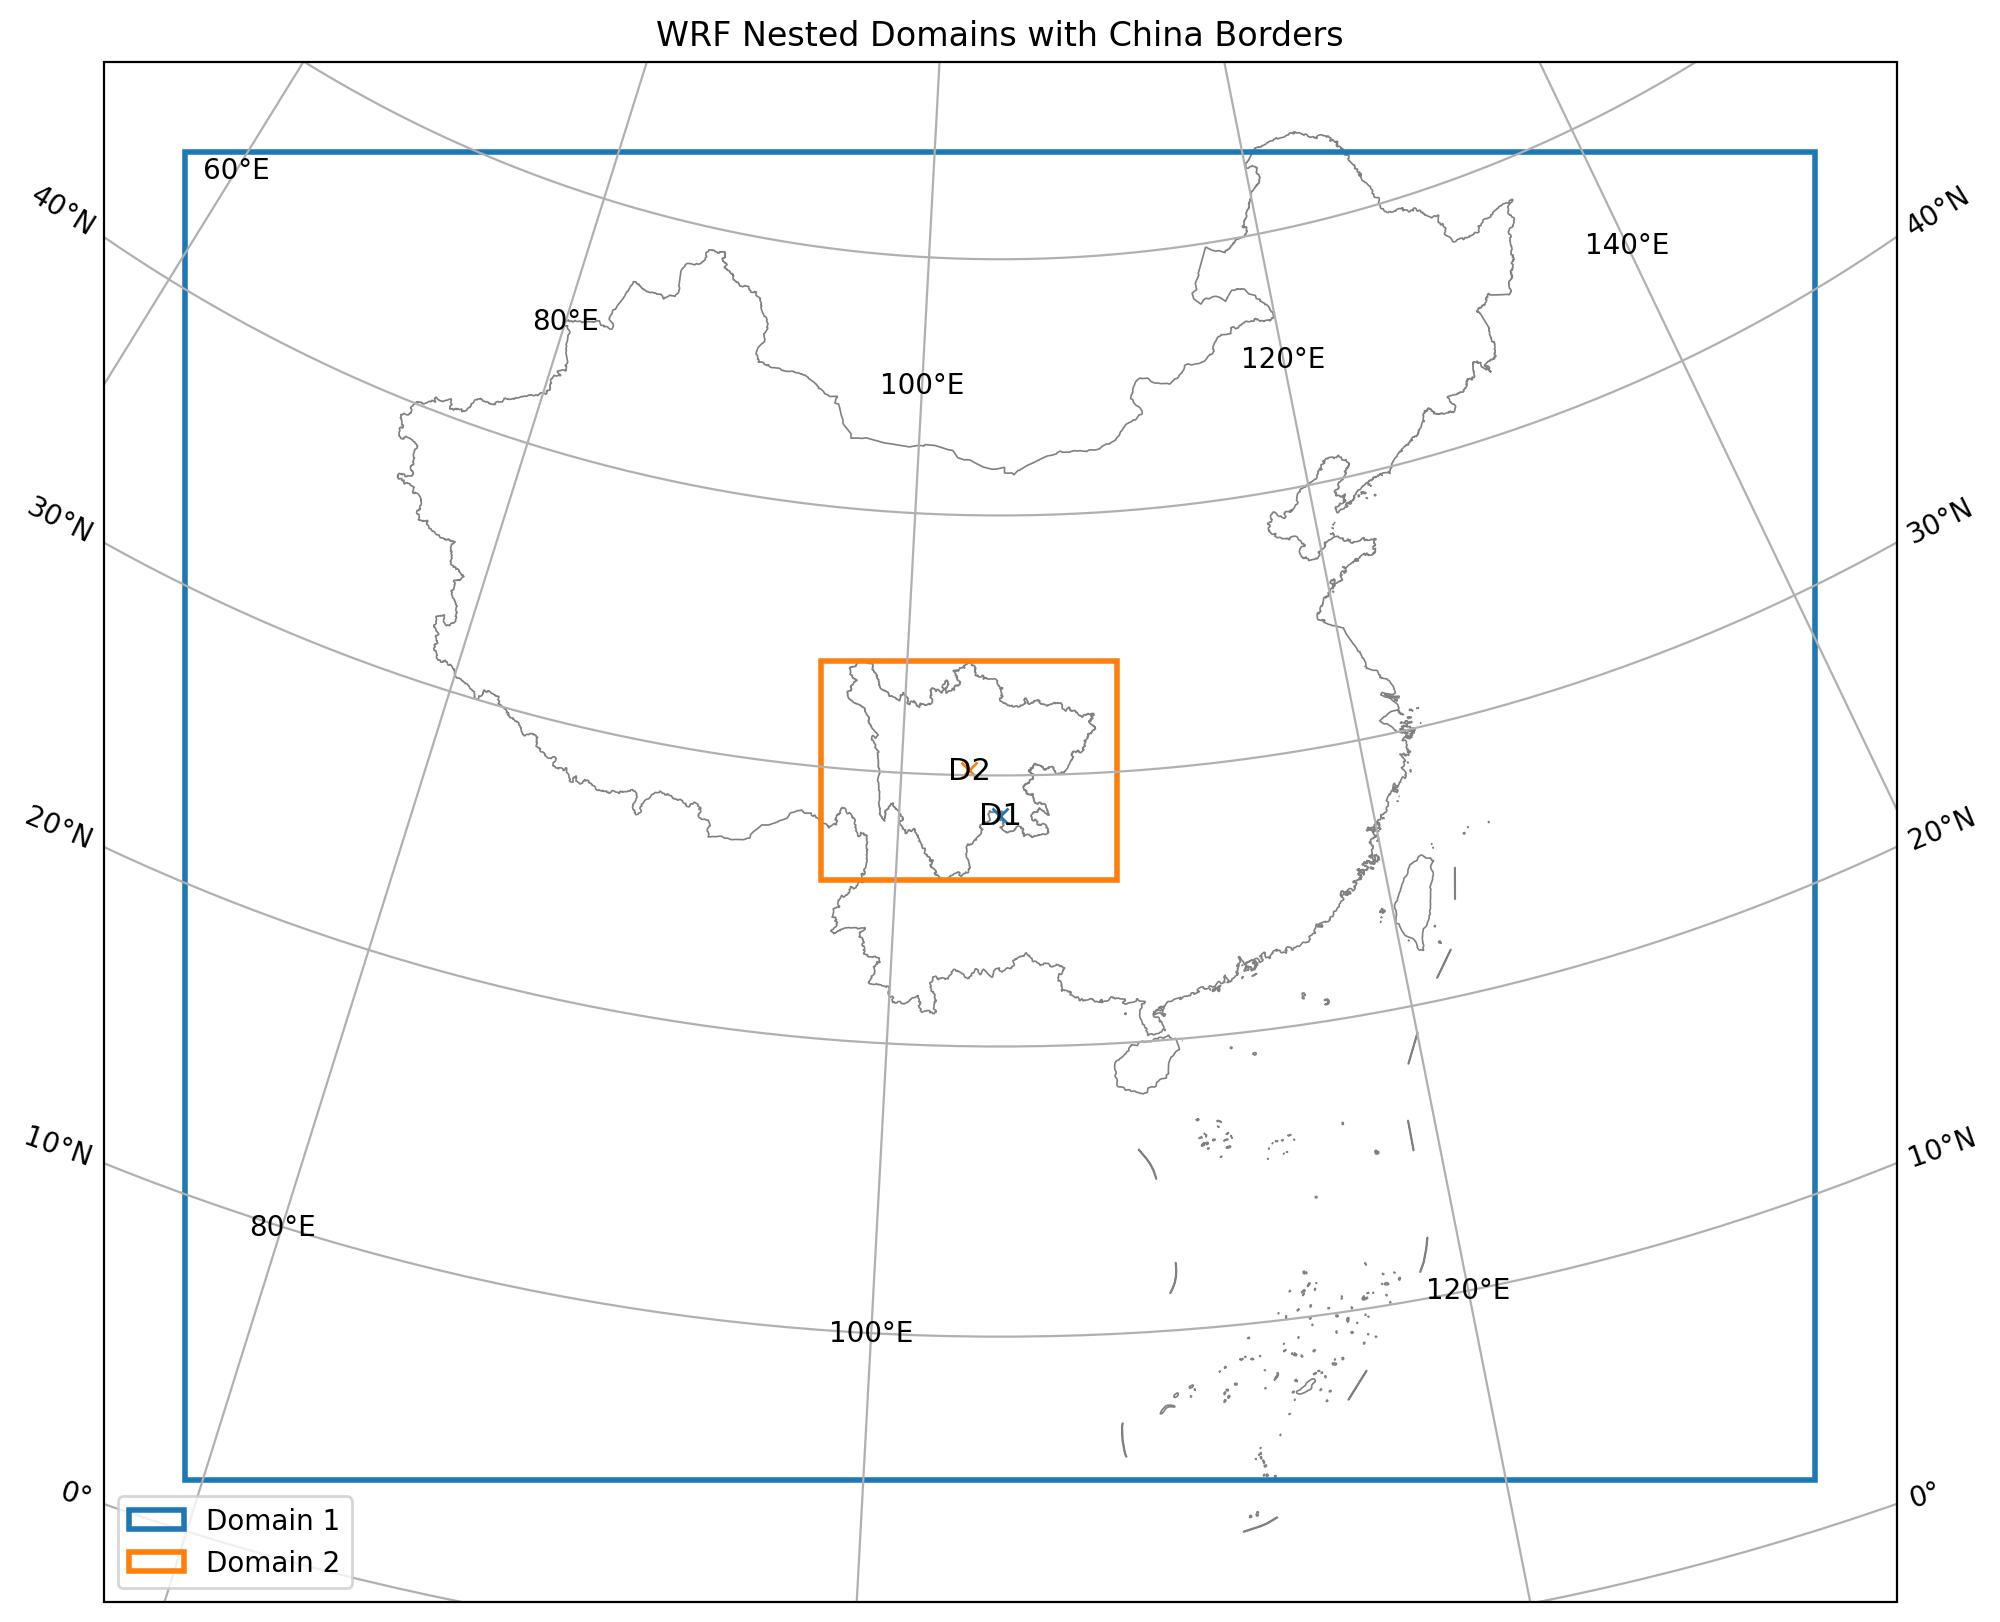
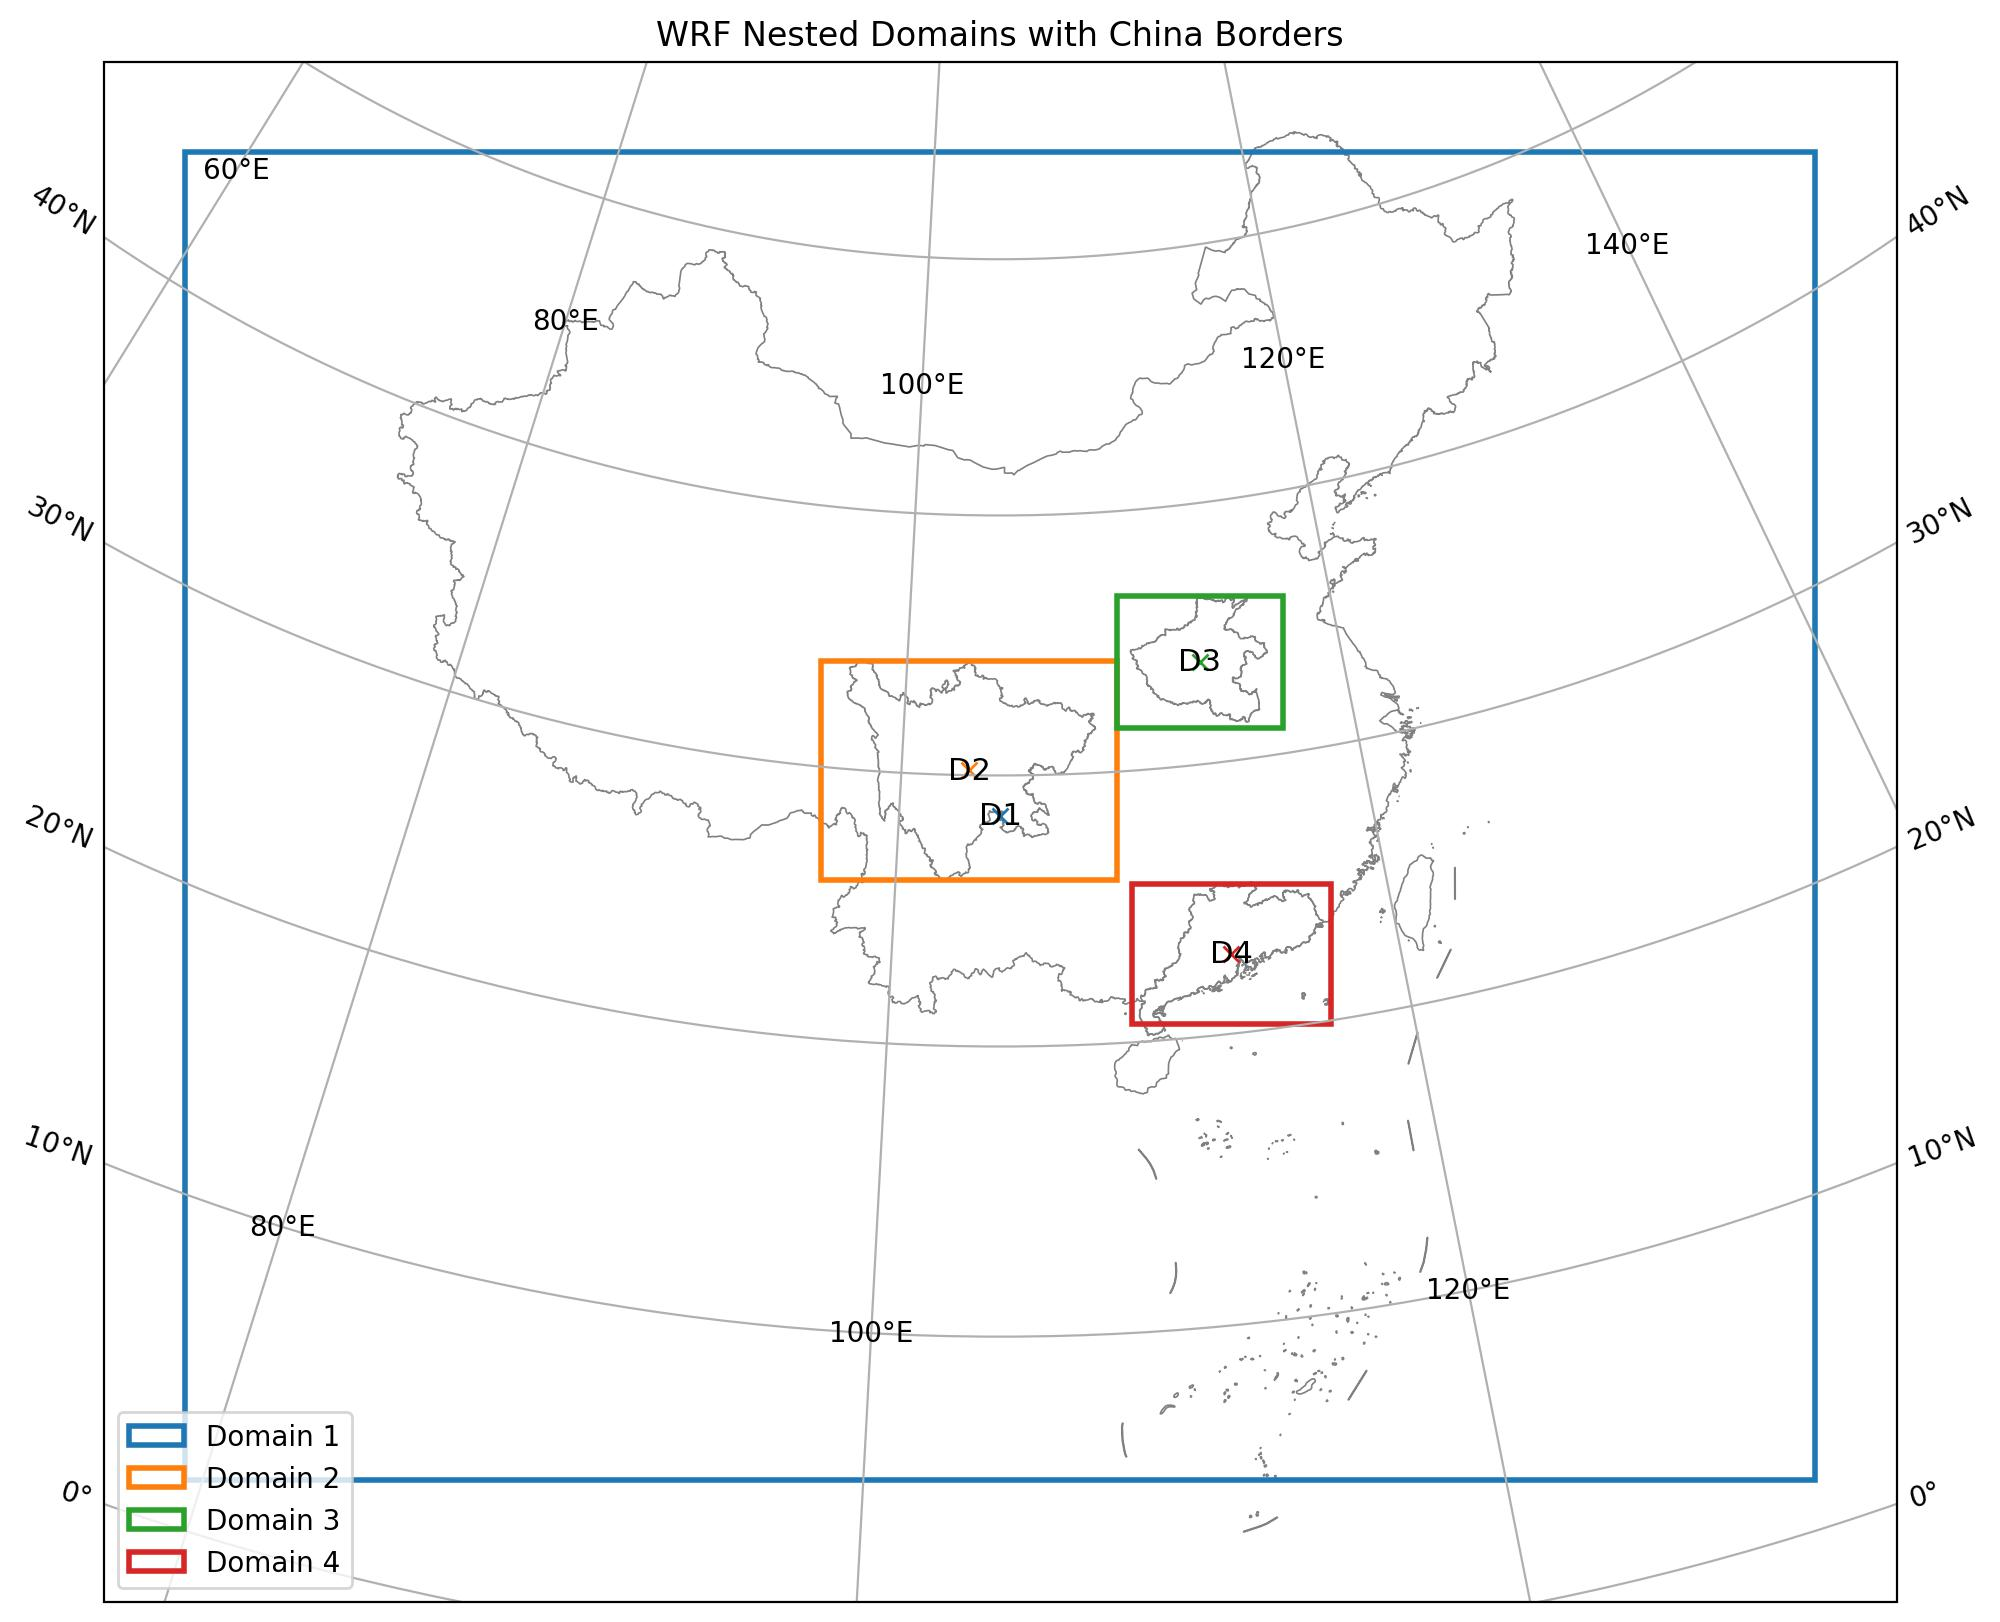
multiple domain

Changed region(s): [[0.558, 0.524, 0.682, 0.6473], [0.558, 0.3391, 0.651, 0.4624], [0.062, 0.8631, 0.186, 0.9864]]

diff --git a/build/lib/wrf_domain_tool/domain_generator.py b/build/lib/wrf_domain_tool/domain_generator.py
@@ -17,11 +17,20 @@ class WRFDomain:
         domains (List[dict]): Computed domain parameters.
     """
 
-    def __init__(self, shapefiles: List[str], dx_base=27000, ratios=[1, 3, 3]):
-        assert len(shapefiles) == len(ratios), "Each shapefile must have a corresponding nesting ratio."
+    def __init__(self, shapefiles: List[str], dx_base: float = None, ratios: List[int] = None):
         self.shapefiles = shapefiles
-        self.dx_base = dx_base
-        self.ratios = ratios
+
+        if dx_base is None:
+            self.dx_base = 27000
+        else:
+            self.dx_base = dx_base
+
+        if ratios is None:
+            self.ratios = [1] + [3] * (len(shapefiles) - 1)
+        else:
+            assert len(ratios) == len(shapefiles), "Each shapefile must have a corresponding nesting ratio."
+            self.ratios = ratios
+
         self.domains = []
 
     def load_shapefiles(self):
@@ -134,6 +143,14 @@ class WRFDomain:
             gdf.plot(ax=ax, facecolor='none', edgecolor='gray', linewidth=0.6)
 
             gdf = gpd.read_file('https://geo.datav.aliyun.com/areas_v3/bound/510000.json')
+            gdf = gdf.to_crs(lcc_proj.proj4_init)
+            gdf.plot(ax=ax, facecolor='none', edgecolor='gray', linewidth=0.6)
+
+            gdf = gpd.read_file('https://geo.datav.aliyun.com/areas_v3/bound/410000.json')
+            gdf = gdf.to_crs(lcc_proj.proj4_init)
+            gdf.plot(ax=ax, facecolor='none', edgecolor='gray', linewidth=0.6)
+
+            gdf = gpd.read_file('https://geo.datav.aliyun.com/areas_v3/bound/440000.json')
             gdf = gdf.to_crs(lcc_proj.proj4_init)
             gdf.plot(ax=ax, facecolor='none', edgecolor='gray', linewidth=0.6)
         except Exception as e:

diff --git a/wrf_domain_tool/domain_generator.py b/wrf_domain_tool/domain_generator.py
@@ -17,11 +17,20 @@ class WRFDomain:
         domains (List[dict]): Computed domain parameters.
     """
 
-    def __init__(self, shapefiles: List[str], dx_base=27000, ratios=[1, 3, 3]):
-        assert len(shapefiles) == len(ratios), "Each shapefile must have a corresponding nesting ratio."
+    def __init__(self, shapefiles: List[str], dx_base: float = None, ratios: List[int] = None):
         self.shapefiles = shapefiles
-        self.dx_base = dx_base
-        self.ratios = ratios
+
+        if dx_base is None:
+            self.dx_base = 27000
+        else:
+            self.dx_base = dx_base
+
+        if ratios is None:
+            self.ratios = [1] + [3] * (len(shapefiles) - 1)
+        else:
+            assert len(ratios) == len(shapefiles), "Each shapefile must have a corresponding nesting ratio."
+            self.ratios = ratios
+
         self.domains = []
 
     def load_shapefiles(self):
@@ -134,6 +143,14 @@ class WRFDomain:
             gdf.plot(ax=ax, facecolor='none', edgecolor='gray', linewidth=0.6)
 
             gdf = gpd.read_file('https://geo.datav.aliyun.com/areas_v3/bound/510000.json')
+            gdf = gdf.to_crs(lcc_proj.proj4_init)
+            gdf.plot(ax=ax, facecolor='none', edgecolor='gray', linewidth=0.6)
+
+            gdf = gpd.read_file('https://geo.datav.aliyun.com/areas_v3/bound/410000.json')
+            gdf = gdf.to_crs(lcc_proj.proj4_init)
+            gdf.plot(ax=ax, facecolor='none', edgecolor='gray', linewidth=0.6)
+
+            gdf = gpd.read_file('https://geo.datav.aliyun.com/areas_v3/bound/440000.json')
             gdf = gdf.to_crs(lcc_proj.proj4_init)
             gdf.plot(ax=ax, facecolor='none', edgecolor='gray', linewidth=0.6)
         except Exception as e:

diff --git a/example/example.py b/example/example.py
@@ -1,9 +1,14 @@
 import wrf_domain_tool.domain_generator as WRF
-wrf = WRF.WRFDomain([
-    'https://geo.datav.aliyun.com/areas_v3/bound/100000.json',  # 中国
-    'https://geo.datav.aliyun.com/areas_v3/bound/510000.json'   # 四川
-],dx_base=27000,
-    ratios=[1, 3])
+wrf = WRF.WRFDomain(
+    shapefiles=[
+        "https://geo.datav.aliyun.com/areas_v3/bound/100000.json",  # 全国
+        "https://geo.datav.aliyun.com/areas_v3/bound/510000.json",  # 四川
+        "https://geo.datav.aliyun.com/areas_v3/bound/410000.json",   # 河南
+        "https://geo.datav.aliyun.com/areas_v3/bound/440000.json"   # D04 - 广东
+    ],
+    ratios=[1, 3, 3,3]
+)
+
 wrf.load_shapefiles()
 wrf.compute_domain_params()
 wrf.write_namelist("namelist.wps")

diff --git a/docs/source/index.rst b/docs/source/index.rst
@@ -30,6 +30,34 @@ Here's an example program that plots the nest domain.
       wrf.compute_domain_params()
       wrf.write_namelist("namelist.wps")
       wrf.plot_domains()
+..code:: python
+   &share
+   max_dom = 7,
+   start_date = '2024-06-01_00:00:00', '2024-06-01_00:00:00', '2024-06-01_00:00:00', '2024-06-01_00:00:00',
+   end_date   = '2024-06-02_00:00:00', '2024-06-02_00:00:00', '2024-06-02_00:00:00', '2024-06-02_00:00:00',
+   interval_seconds = 21600,
+   io_form_geogrid = 2,
+   /
+
+   &geogrid
+   parent_id            = 1, 1, 2, 1, 3, 1, 4
+   parent_grid_ratio    = 1, 3, 3, 3, 3, 3, 3
+   i_parent_start       = 1, 91, 61, 136, 28, 138, 33
+   j_parent_start       = 1, 36, 47, 61, 31, 18, 14
+   e_we                 = 235, 124, 88, 73, 64, 103, 73
+   e_sn                 = 160, 121, 91, 70, 64, 67, 64
+   dx = 27000.0,
+   dy = 27000.0,
+   map_proj = 'lambert',
+   ref_lat = 28.480215434999998,
+   ref_lon = 104.2990125,
+   truelat1 = 30.0,
+   truelat2 = 60.0,
+   stand_lon = 104.2990125,
+   geog_data_res = 'default', 'default', 'default', 'default',
+   geog_data_path ='/home/gaochao/model/software/geog/geog/'
+   /
+
 
 .. toctree::
    :maxdepth: 2
